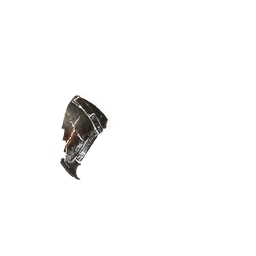
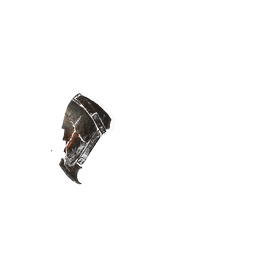
feat(art): v0.1.55-hubsplit CoS overlay restage
Restage ash/tooth/gate overlays from tod-hubsplit-v0155; soot rim unchanged.
Align HUBSPLIT_OVERLAYS doc + Trollkept md5 contract. Teal circle stays off.

Changed region(s): [[0.2188, 0.3438, 0.4375, 0.7188]]

diff --git a/app/src/test/java/com/towerofdarkness/app/TrollkeptV0154Test.kt b/app/src/test/java/com/towerofdarkness/app/TrollkeptV0154Test.kt
@@ -242,9 +242,9 @@ class TrollkeptV0154Test {
         // v0.1.55-hubsplit overlay art — authoritative md5s in docs/art-audio/HUBSPLIT_OVERLAYS_v0.1.55.md
         val expected = mapOf(
             "overlay_soot_rim" to "6d9431fac60ace69e7d1cefd06055655",
-            "overlay_ash_pauldron" to "811e469eb4ba46c5adf96c2a4cc50439",
-            "overlay_troll_tooth" to "c5fadc1ad5c7ef333efb341a9676e554",
-            "overlay_gate_sigil" to "5dacbd7bfbeaefc020f39eba75f5248e"
+            "overlay_ash_pauldron" to "bd1bf237f3174b870ecd573a70e6830d",
+            "overlay_troll_tooth" to "ef34f2f6d31975d2e674fec65d5e0e4c",
+            "overlay_gate_sigil" to "3d0add7b710e6d8cf7d7677e5f4f3976"
         )
         for ((name, md5) in expected) {
             val f = listOf(

diff --git a/docs/art-audio/HUBSPLIT_OVERLAYS_v0.1.55.md b/docs/art-audio/HUBSPLIT_OVERLAYS_v0.1.55.md
@@ -17,10 +17,10 @@ Hub + title `HeroShowcase` only — not combat, not enemy busts.
 
 | File | bytes | md5 | Content bbox | coverage |
 |------|------:|-----|--------------|---------:|
-| `assets/portraits/overlay_soot_rim.png` (+ drawable) | 7172 | `6d9431fac60ace69e7d1cefd06055655` | `(41, 17, 213, 240)` | 1.66% |
-| `assets/portraits/overlay_ash_pauldron.png` (+ drawable) | 11678 | `6a9575f95b9ec0d0cfb99dfd43e890b2` | `(58, 93, 110, 182)` | 3.52% |
-| `assets/portraits/overlay_troll_tooth.png` (+ drawable) | 9409 | `aa53bba8de86e3f089bfcab5764243ea` | `(162, 138, 206, 209)` | 2.53% |
-| `assets/portraits/overlay_gate_sigil.png` (+ drawable) | 10969 | `f404372aa68e583fb792d76fdd328e8c` | `(92, 140, 163, 209)` | 3.46% |
+| `assets/portraits/overlay_soot_rim.png` (+ drawable) | 7172 | `6d9431fac60ace69e7d1cefd06055655` | `(42, 19, 211, 237)` | 1.76% |
+| `assets/portraits/overlay_ash_pauldron.png` (+ drawable) | 13410 | `bd1bf237f3174b870ecd573a70e6830d` | `(46, 91, 115, 187)` | 4.59% |
+| `assets/portraits/overlay_troll_tooth.png` (+ drawable) | 11184 | `ef34f2f6d31975d2e674fec65d5e0e4c` | `(156, 134, 205, 210)` | 3.70% |
+| `assets/portraits/overlay_gate_sigil.png` (+ drawable) | 27622 | `3d0add7b710e6d8cf7d7677e5f4f3976` | `(76, 113, 179, 216)` | 12.32% |
 
 ## Stack order (bottom → top)
 
